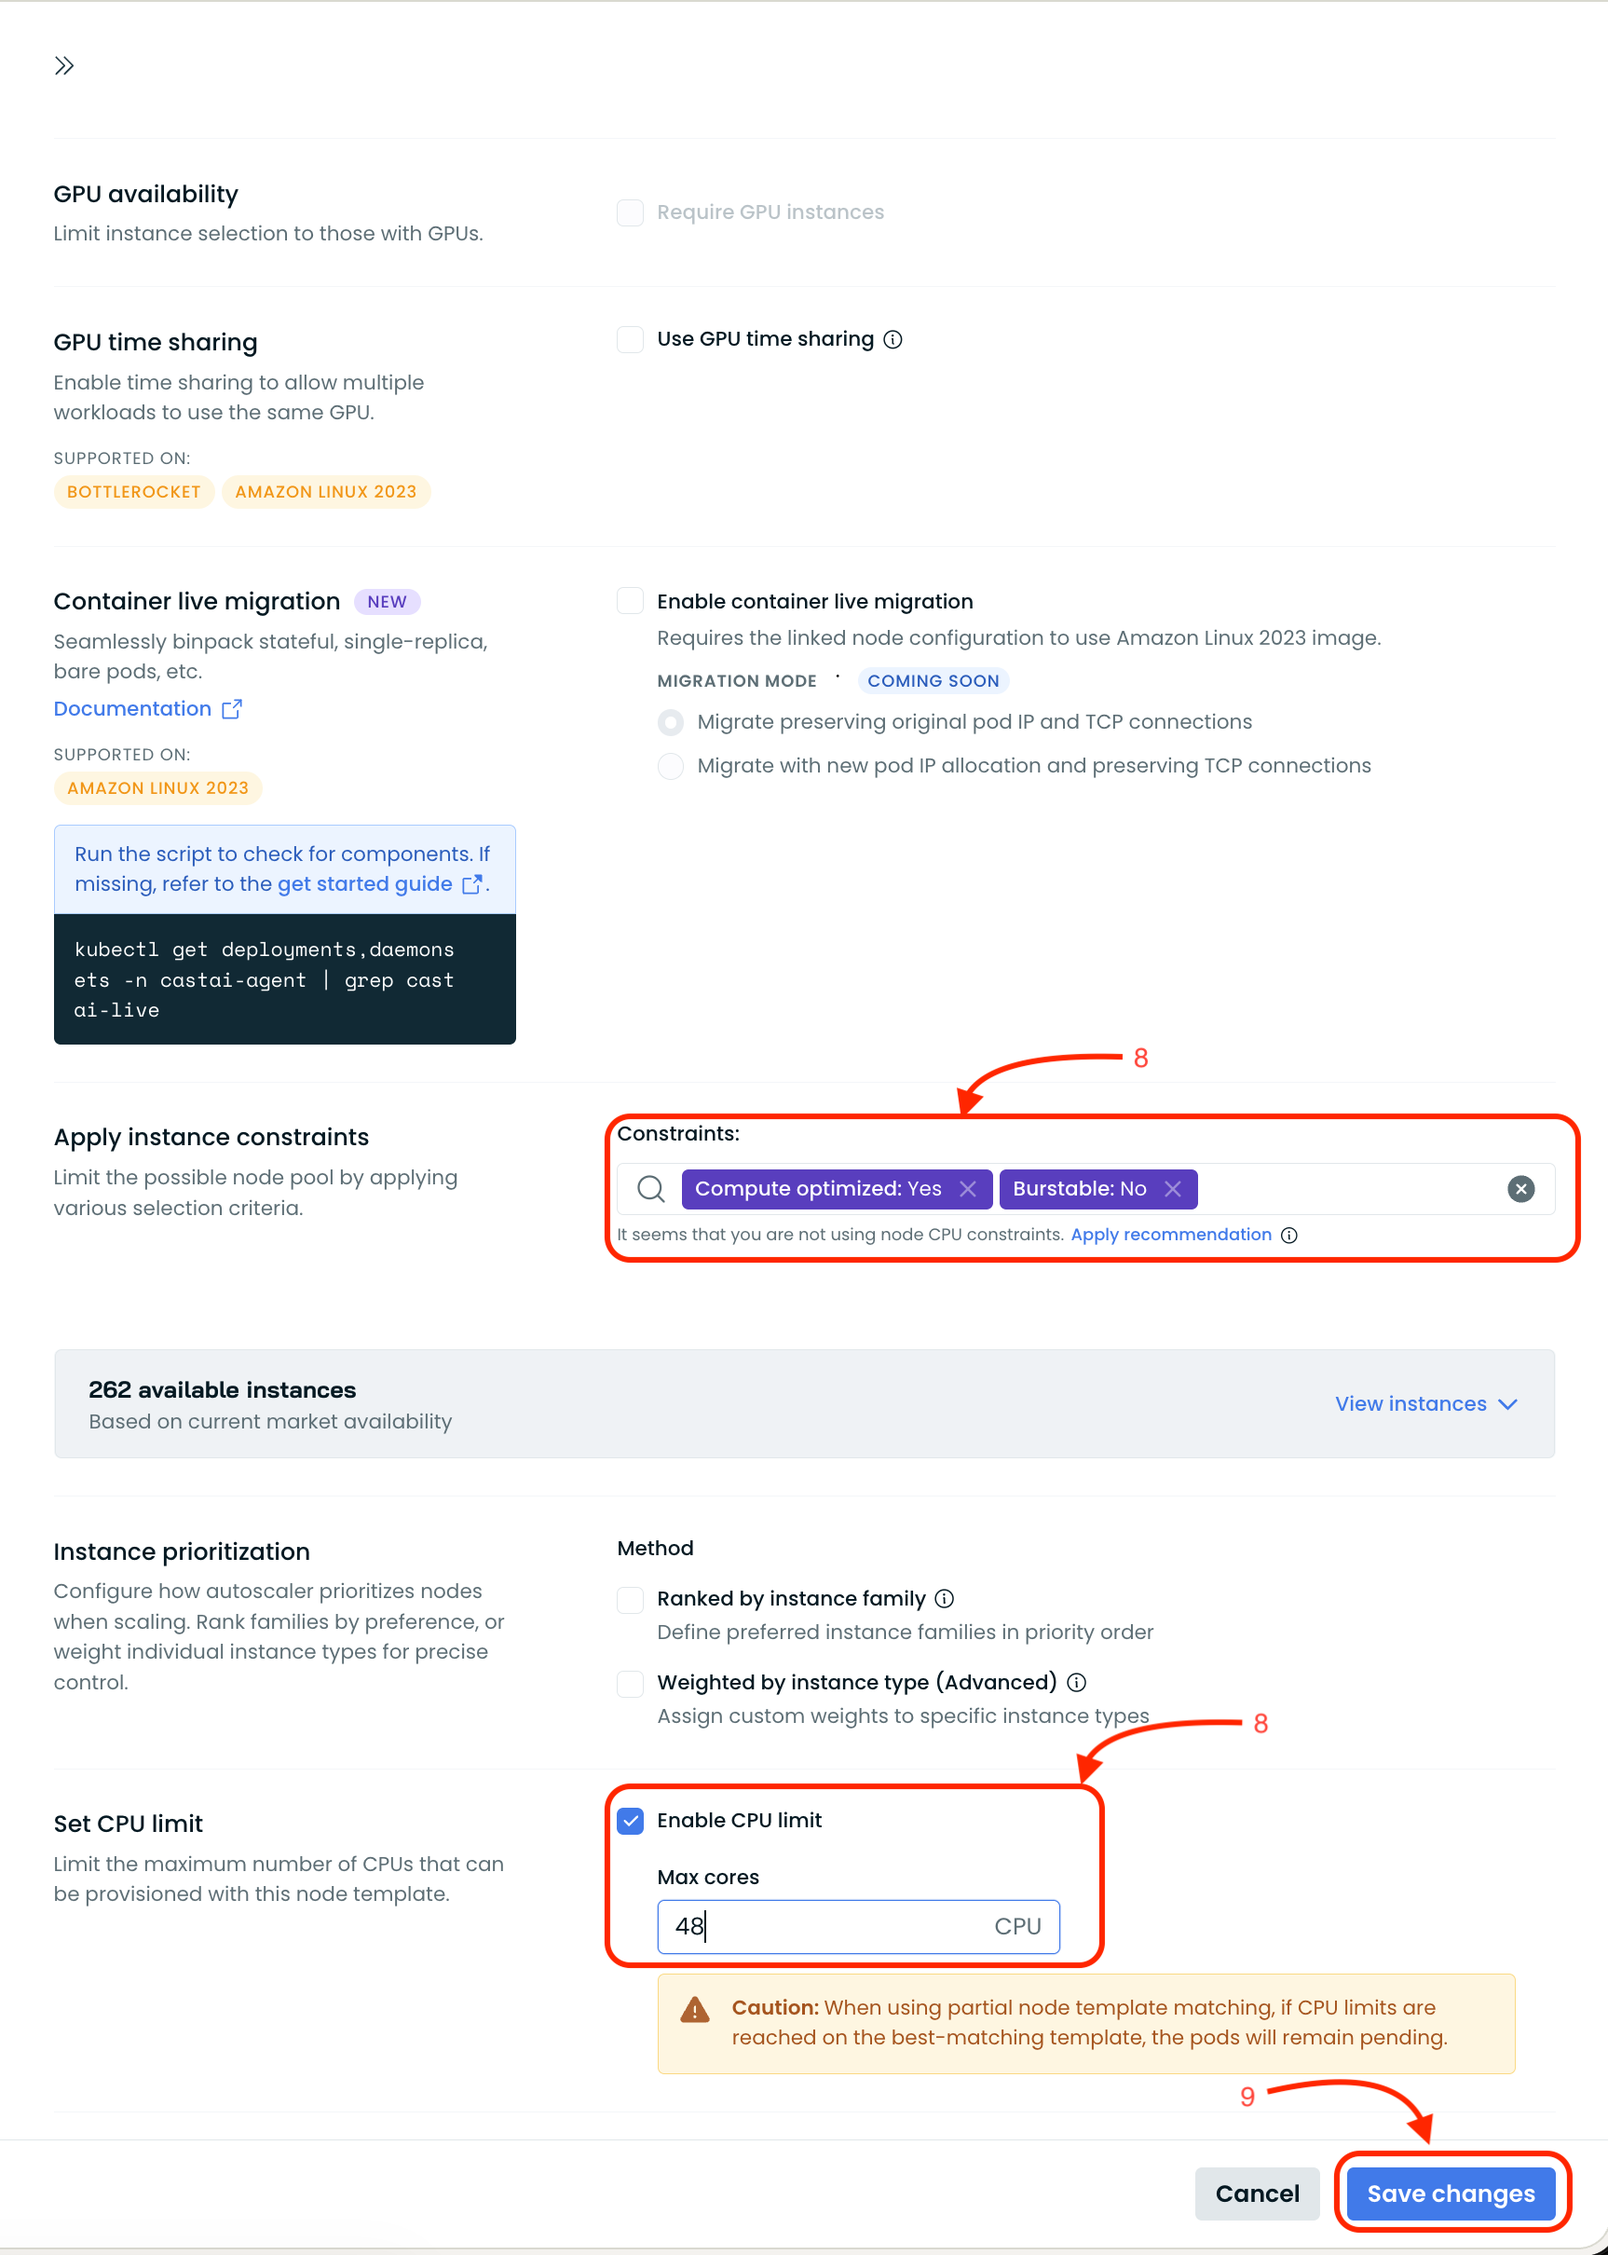
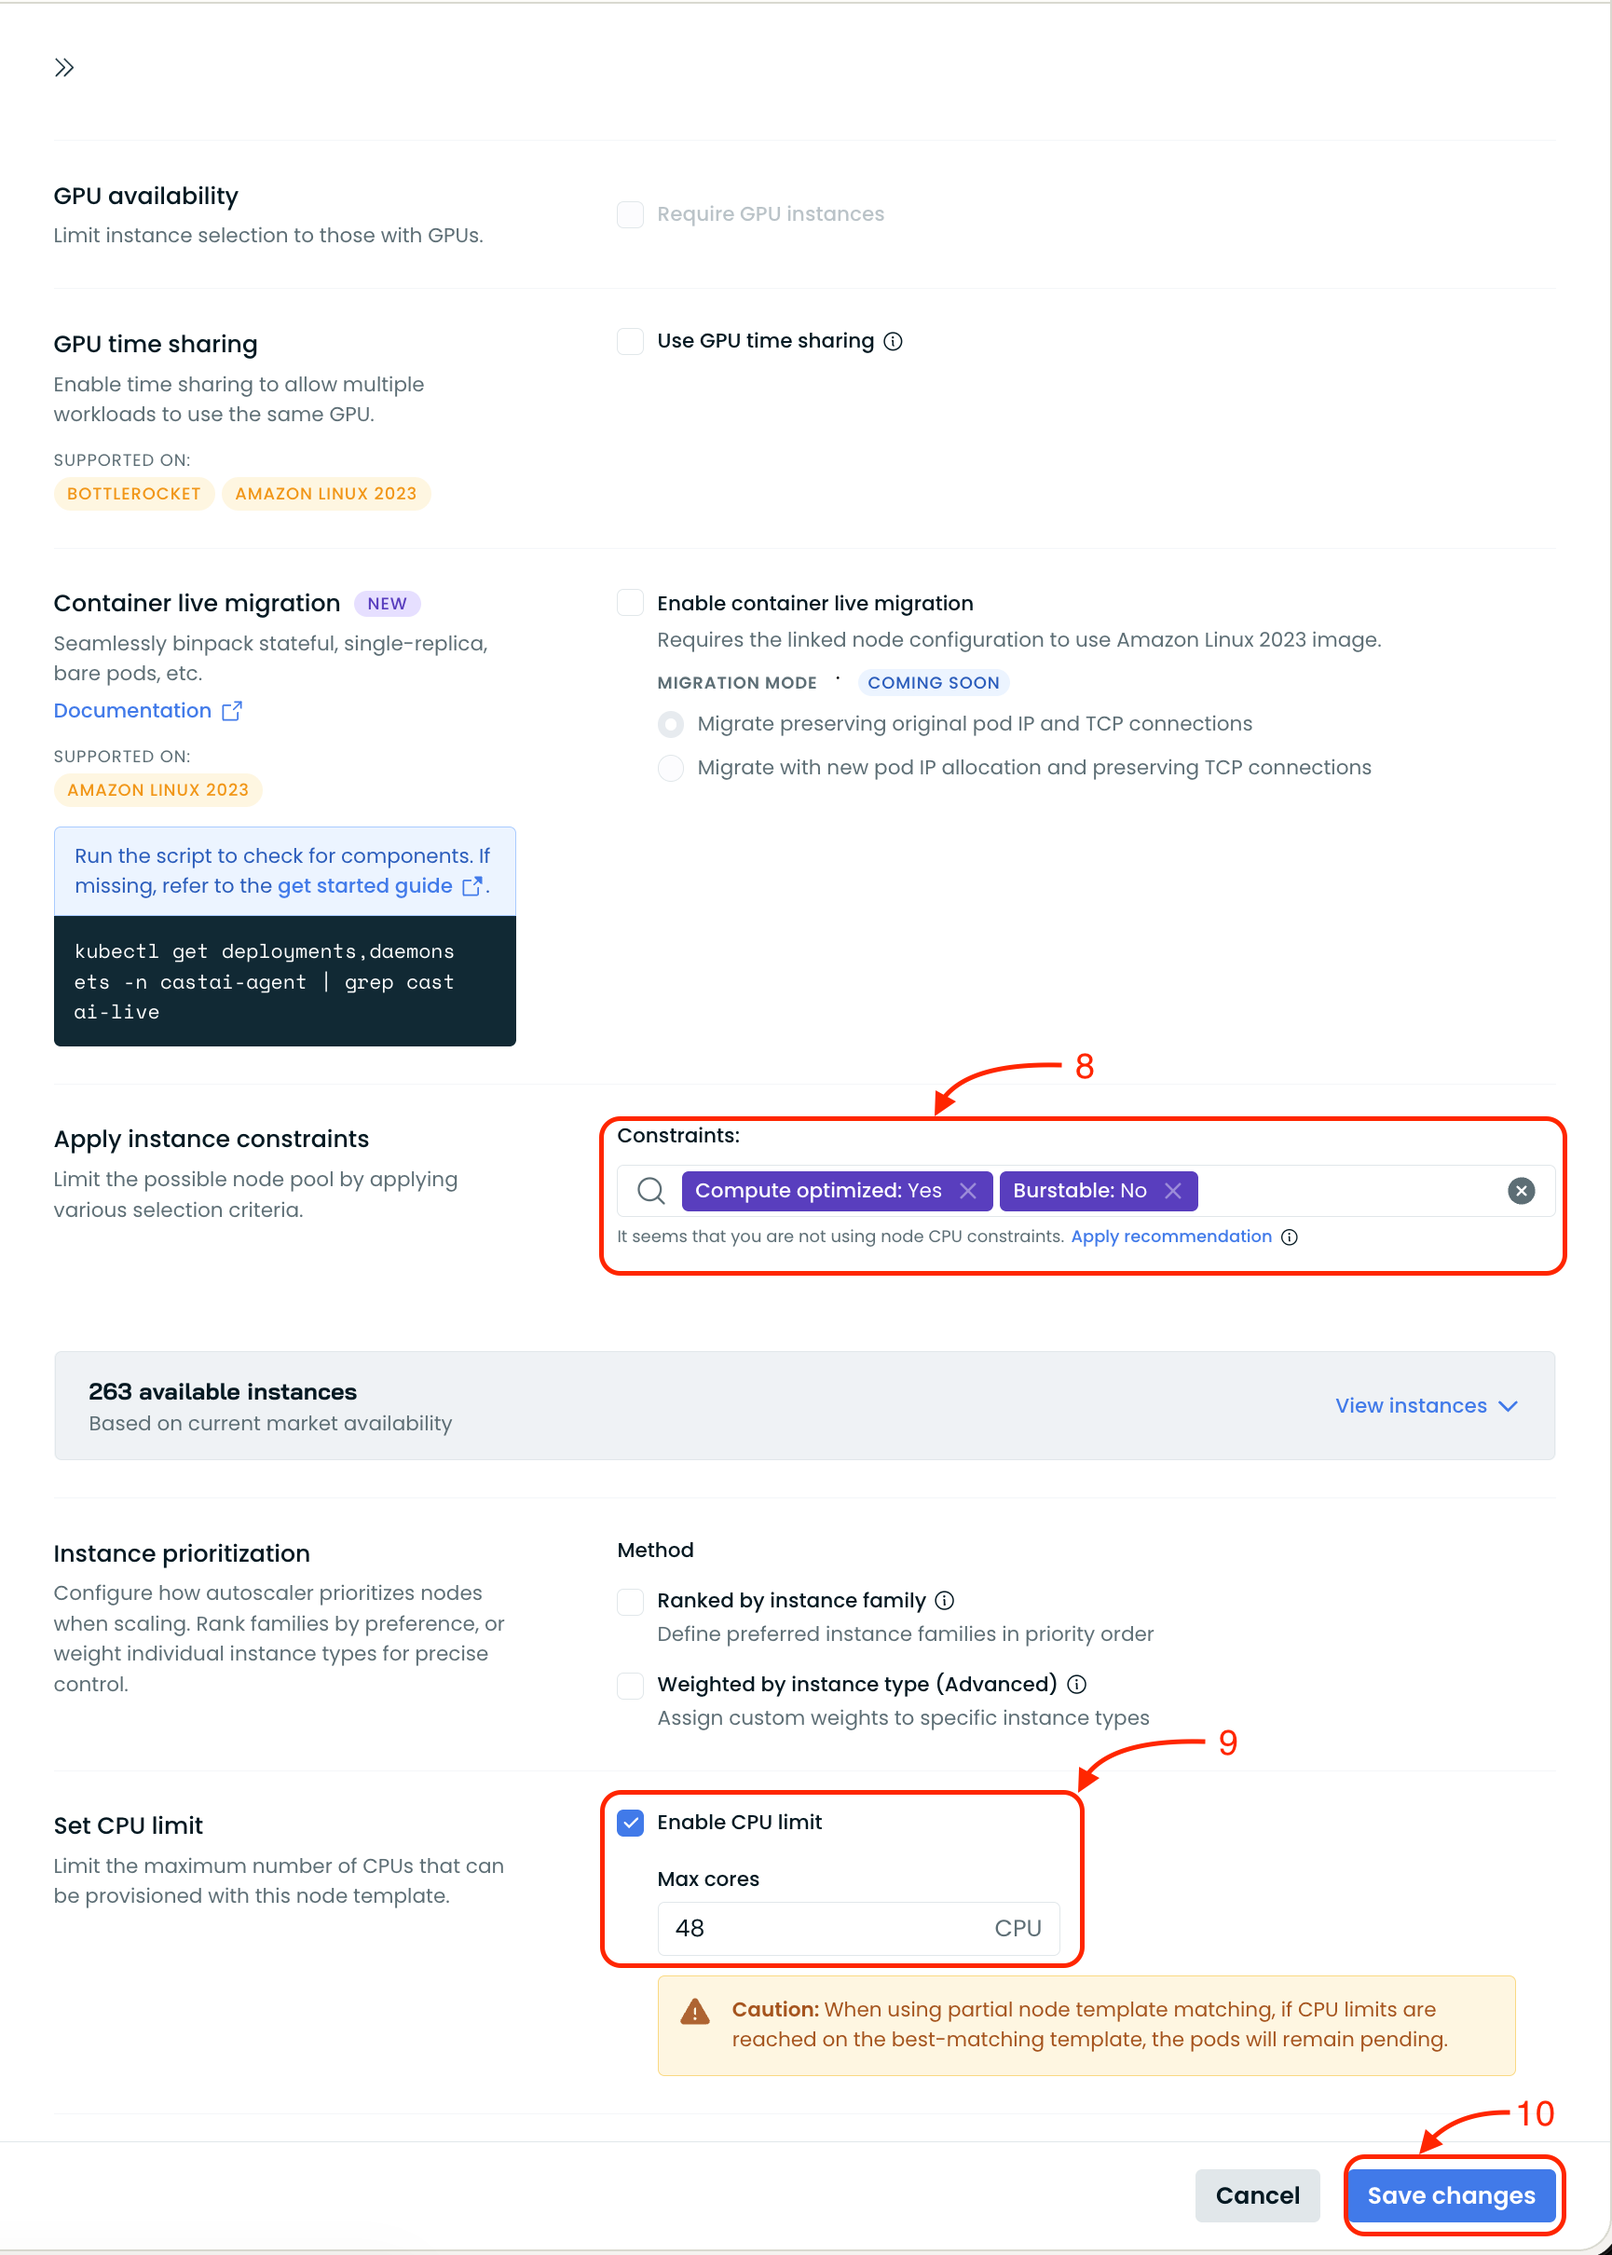
Fix screenshots

diff --git a/exercises/04-enable-vpa/README.md b/exercises/04-enable-vpa/README.md
@@ -15,7 +15,8 @@ workloads.
 
    Go to the **Workload Autoscaler** section.
 
-   ![workload autoscalper page](./images/workload-autoscalper-page.png)
+   ![workload autoscalper page](./images/workload-autoscaler-page.png)
+   ![workload autoscalper page](./images/workload-autoscaler-page-2.png)
 
 3. **Explore the Optimization screen**
 
